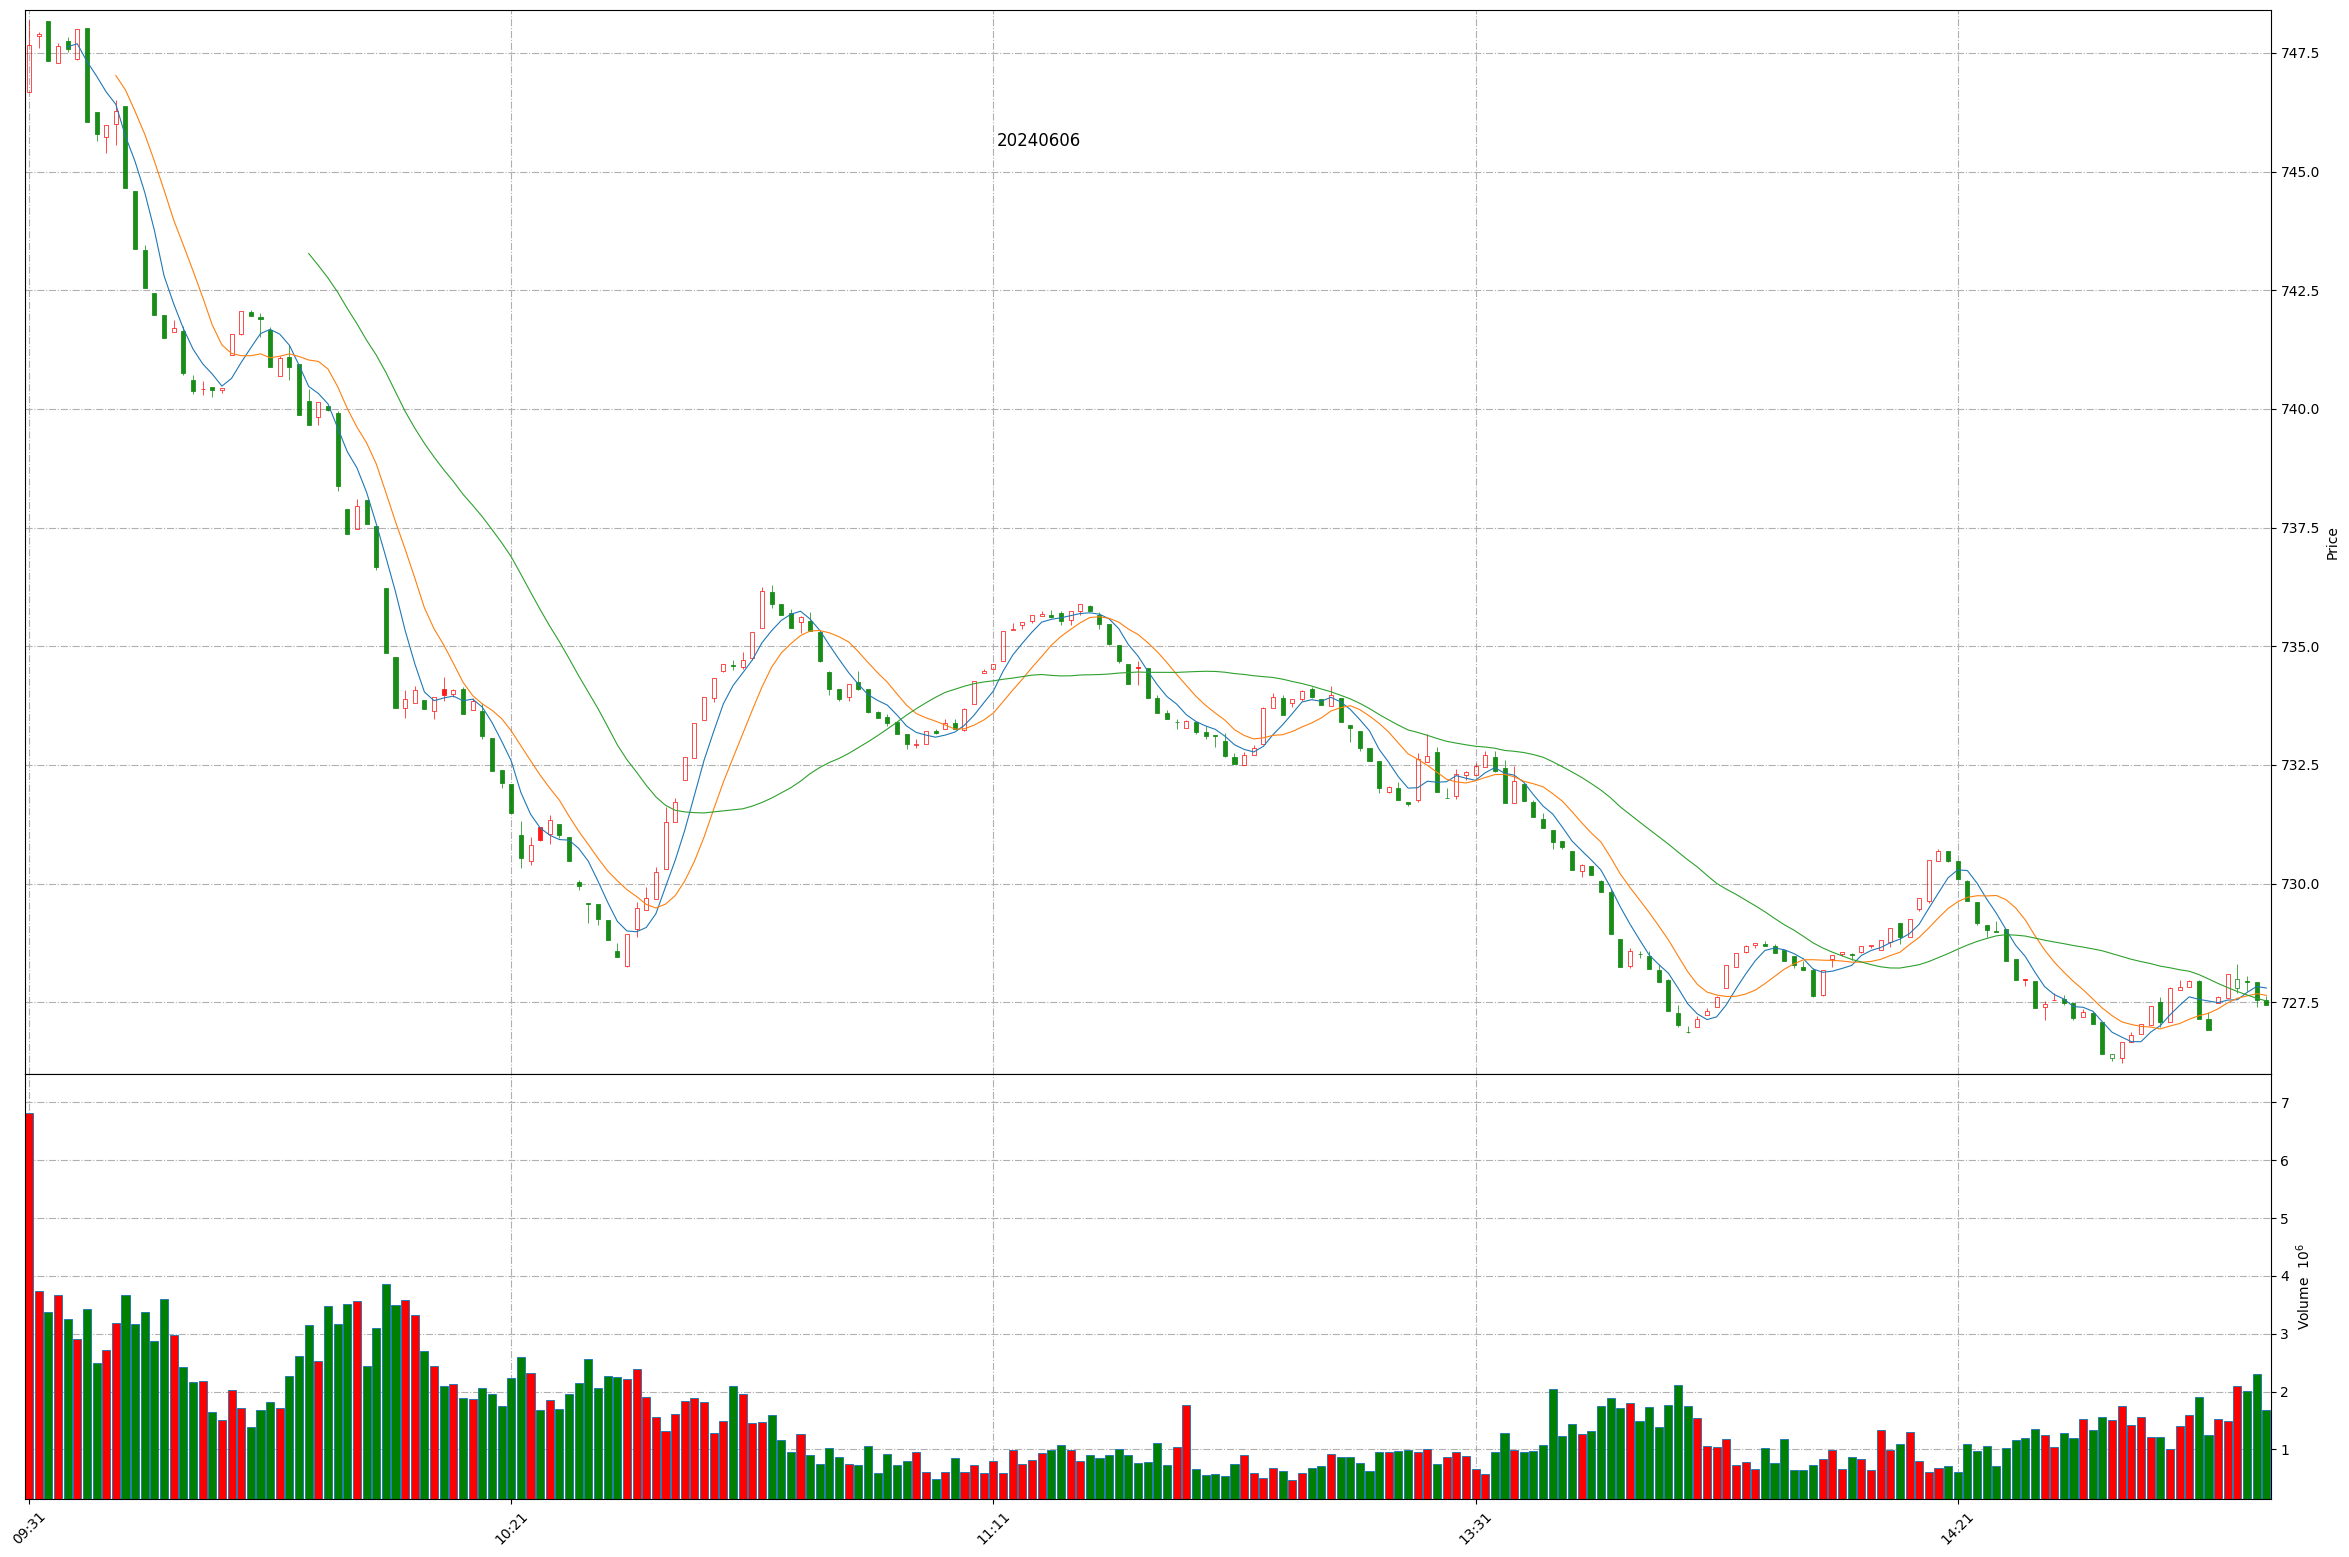
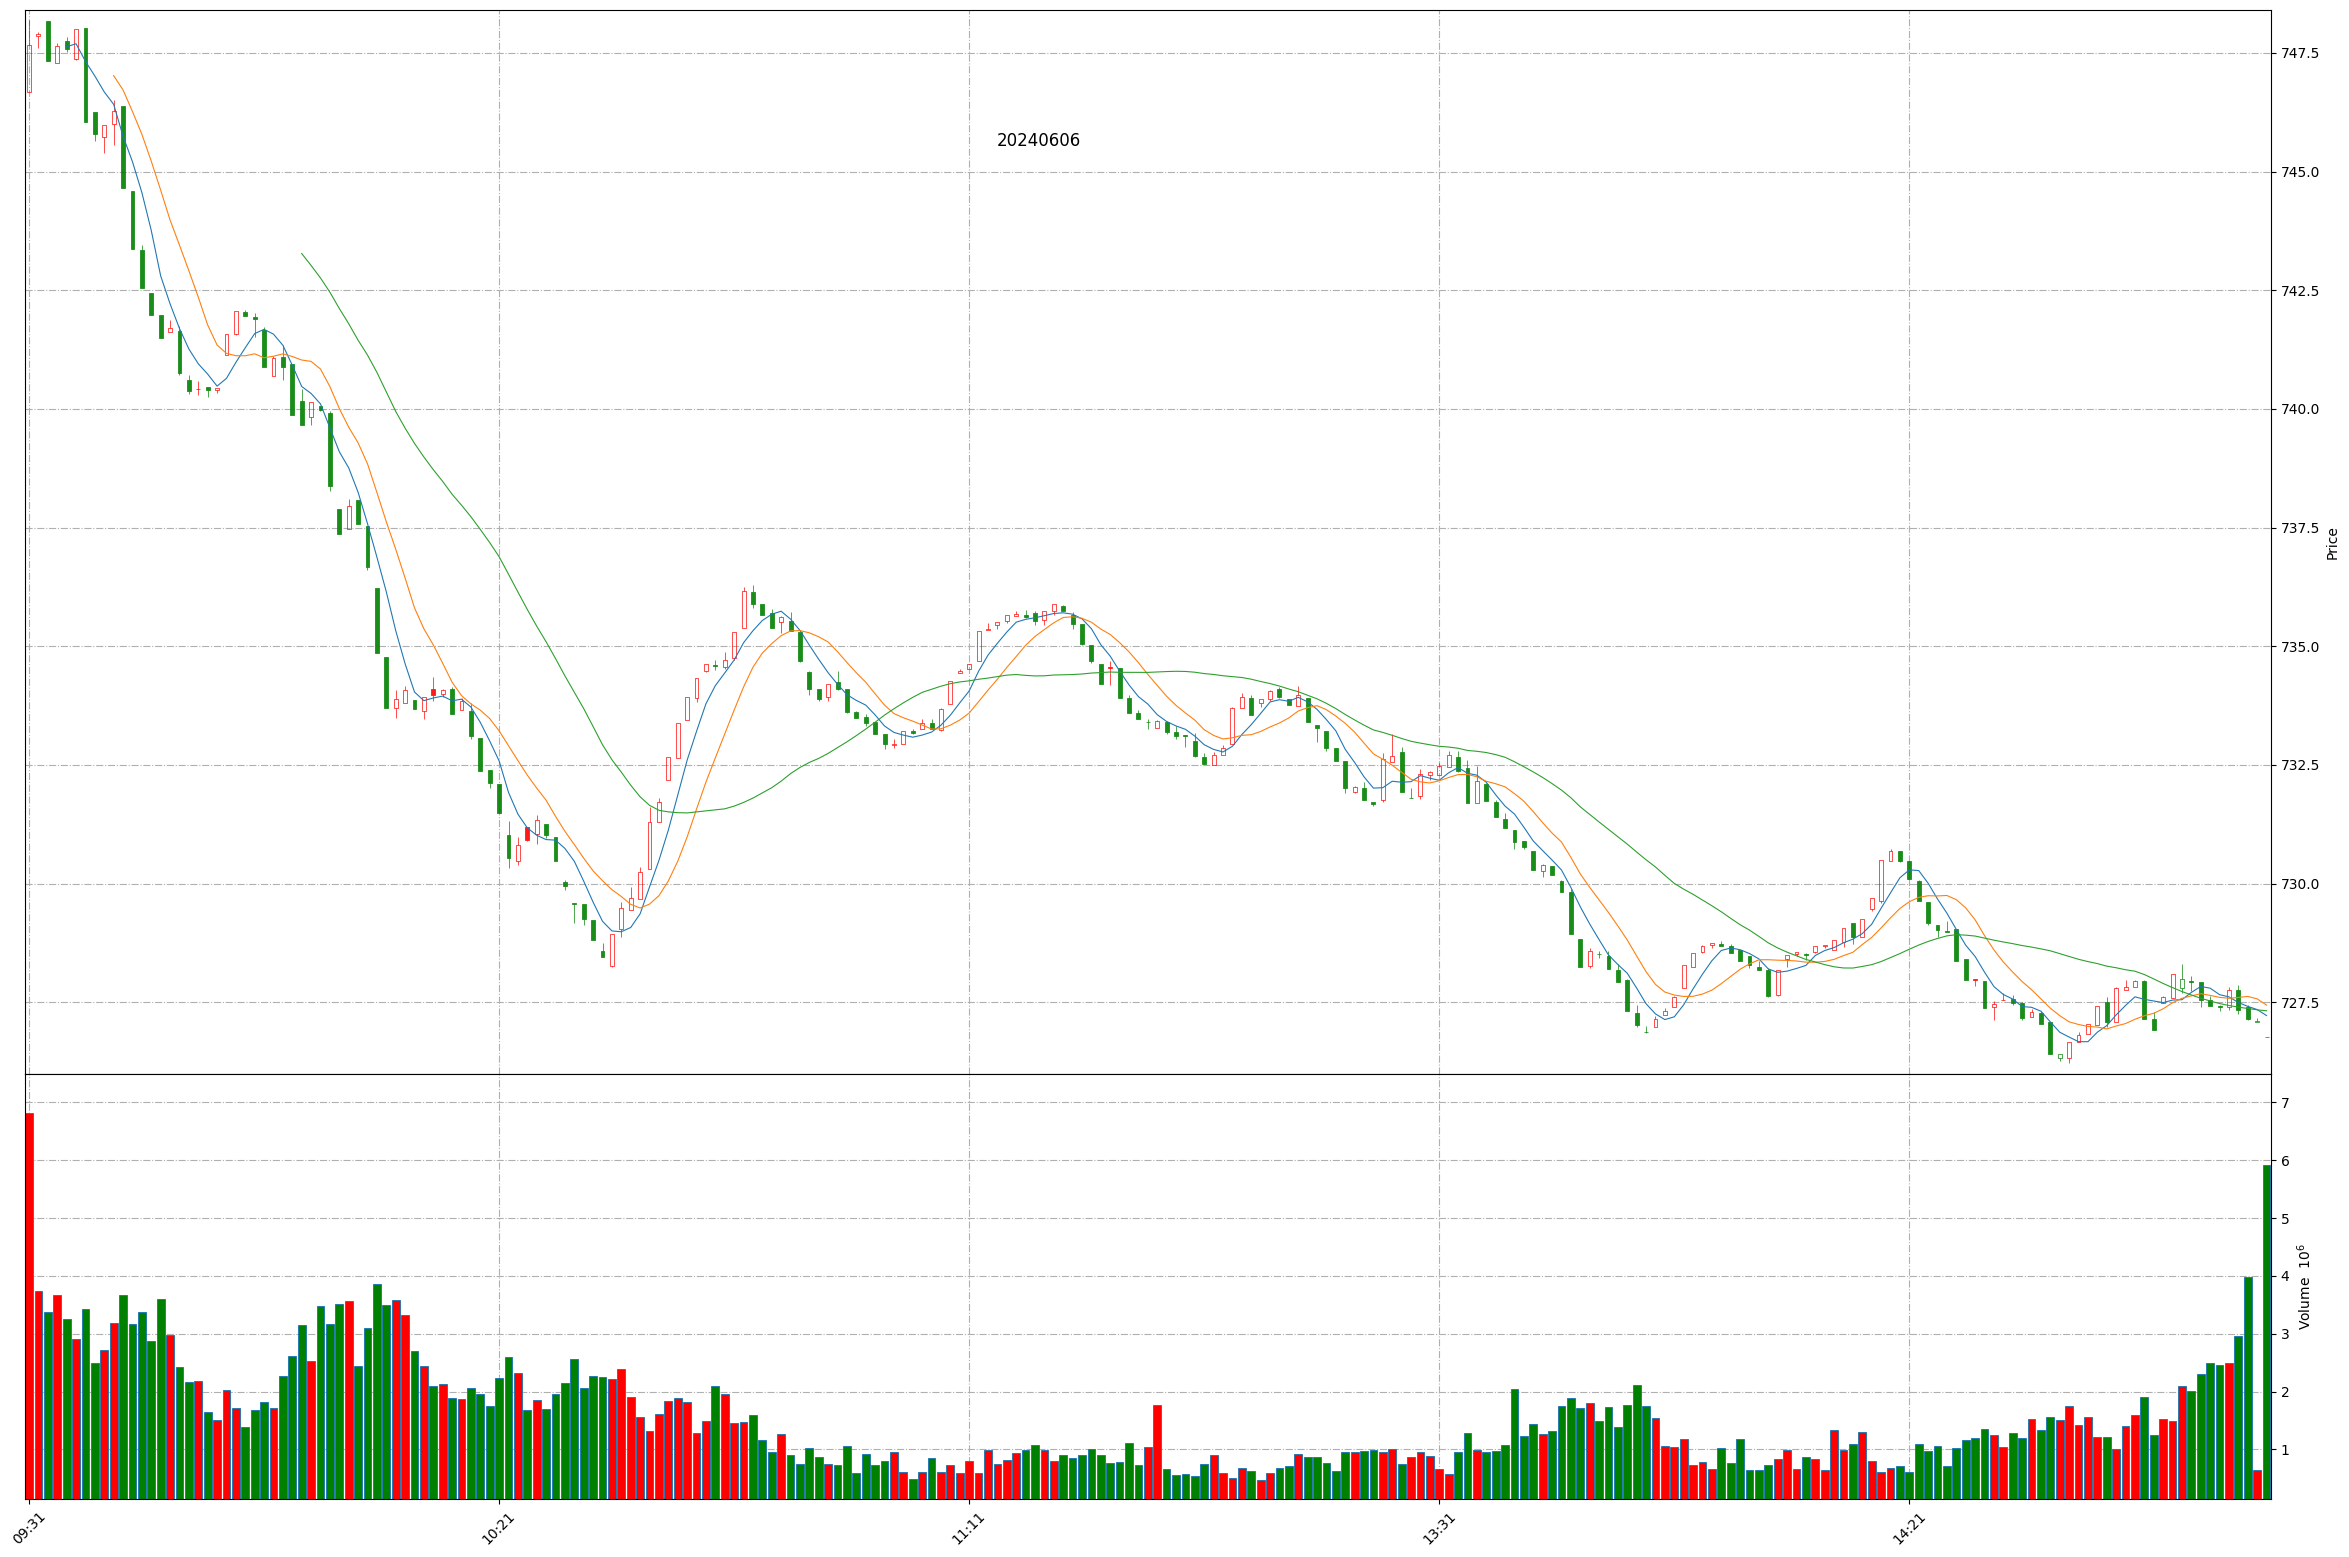
Github action update at 2024-06-06 15:11:39.

diff --git a/README.md b/README.md
@@ -1,11 +1,11 @@
 
 # Daily-A-share-market-quotes 每日 A 股指数（5min 更新）- 20240606
 
-### 上证指数 20240606 14:52
+### 上证指数 20240606 15:11
 ![](./fig/2024/6/20240606-sh000001.png)
 
-### 深证成指 20240606 14:52
+### 深证成指 20240606 15:11
 ![](./fig/2024/6/20240606-sz399001.png)
 
-### 北证50 20240606 14:52
+### 北证50 20240606 15:11
 ![](./fig/2024/6/20240606-bj899050.png)
